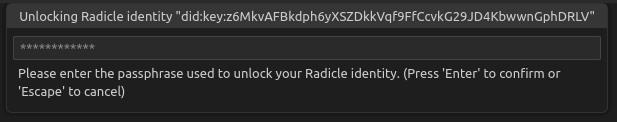
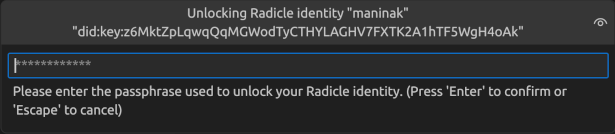
docs(readme): update the screenshots for auth features

Changed region(s): [[0.0, 0.3443, 1.0, 0.8607], [0.0, 0.0246, 1.0, 0.3197]]

diff --git a/README.md b/README.md
@@ -13,7 +13,7 @@ A VS Code extension bringing support for the Radicle network to your IDE.
 > _See the latest, as well as upcoming, updates in the [🗒 Change Log](CHANGELOG.md)._
 
 - 🖲 [Execute Radicle commands](#integrated-radicle-commands) right from your IDE. Use whichever of the multiple integrated ways fits your workflow best.
-- 🔐 [Integrated Authentication](#integrated-authentication) eases your Radicle Identity management
+- 🔐 [Integrated authentication](#integrated-authentication) eases your Radicle Identity management
 - 📥 [Cloning](#cloning) of tracked Radicle projects
 - 🗺 [Onboarding flow](#onboarding-flow) with tips specialized to whichever state your Workspace is in when starting out
 - 🕵♂ [Troubleshooting flow](#troubleshooting-flow) helping you point the extension to a Radicle CLI binary (if it didn't already auto-resolve)

diff --git a/CHANGELOG.md b/CHANGELOG.md
@@ -24,6 +24,10 @@
 
 - **ux:** wrap VS Code's lackluster [InputBox API](https://code.visualstudio.com/api/references/vscode-api#InputBox) resulting in procedural, verbose and brittle client code, with a new custom-built sensible wrapper ([#67](https://github.com/cytechmobile/radicle-vscode-extension/issues/67))
 
+### 📖 Documentation
+
+- **readme:** use up-to-date screenshots for Integrated Authentication features ([#67](https://github.com/cytechmobile/radicle-vscode-extension/issues/67))
+
 -----
 
 ## **v0.2.2** (July 29th, 2023)
